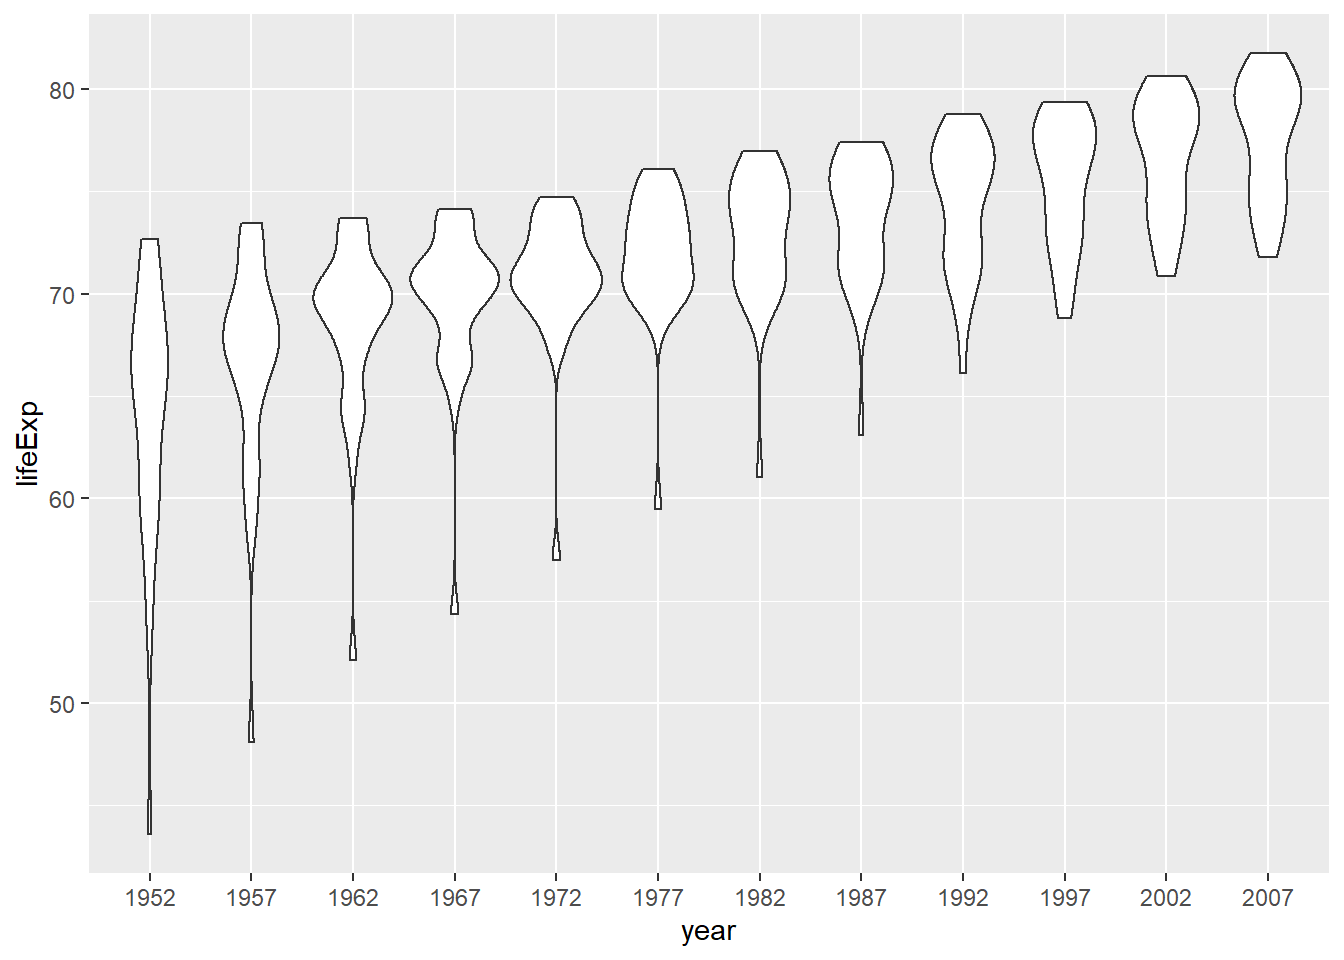
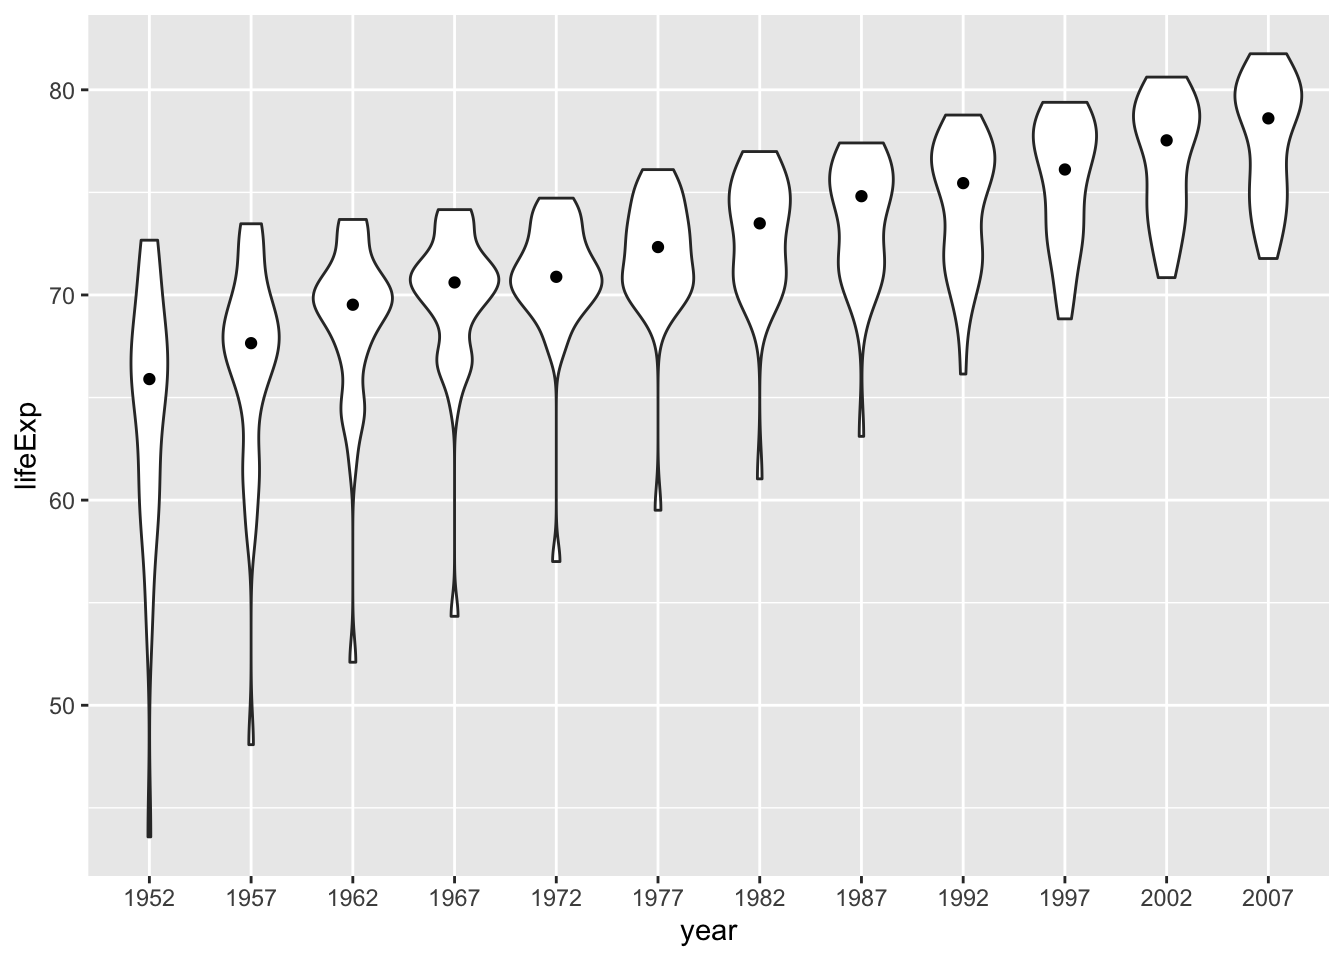
updated errors in RNotebookExample

diff --git a/RNotebookExample.html b/RNotebookExample.html
@@ -1,20 +1,17 @@
 <!DOCTYPE html>
 
-<html xmlns="http://www.w3.org/1999/xhtml">
+<html>
 
 <head>
 
 <meta charset="utf-8" />
-<meta http-equiv="Content-Type" content="text/html; charset=utf-8" />
 <meta name="generator" content="pandoc" />
 <meta http-equiv="X-UA-Compatible" content="IE=EDGE" />
 
 
-<meta name="author" content="Alexia Cardona" />
 
-<meta name="date" content="2019-01-10" />
 
-<title>RNotebookExample</title>
+<title></title>
 
 <script src="site_libs/jquery-1.11.3/jquery.min.js"></script>
 <meta name="viewport" content="width=device-width, initial-scale=1" />
@@ -237,6 +234,7 @@ $(document).ready(function () {
   border: none;
   display: inline-block;
   border-radius: 4px;
+  background-color: transparent;
 }
 
 .tabset-dropdown > .nav-tabs.nav-tabs-open > li {
@@ -280,7 +278,7 @@ $(document).ready(function () {
   <a href="rmarkdown.html">Rmarkdown</a>
 </li>
 <li>
-  <a href="git.html">GitHub</a>
+  <a href="git.html">Git</a>
 </li>
       </ul>
       <ul class="nav navbar-nav navbar-right">
@@ -294,14 +292,11 @@ $(document).ready(function () {
 
 
 
-<h1 class="title toc-ignore">RNotebookExample</h1>
-<h4 class="author">Alexia Cardona</h4>
-<h4 class="date">01/10/2019</h4>
 
 </div>
 
 
-<p>This report contains the analysis of the gapminder data and contains the results of the top Countries with the largest life expectancy in Europe. The analysis is based on data from 2007. The report also analyzes how love expectancy changed over the years in Europe.</p>
+<p>This report contains the analysis of the <code>gapminder</code> data set and contains the results of the top Countries with the largest life expectancy in Europe. The analysis is based on data from 2007. The report also analyzes how life expectancy changed over the years in Europe.</p>
 <p>This report was generated using R and the code to extract the European 2007 data is as follows:</p>
 <pre class="r"><code>#load tidyverse library
 library(tidyverse) # used for data manipulation
@@ -769,15 +764,16 @@ Turkey
 {"columns":[{"label":["Country"],"name":[1],"type":["chr"],"align":["left"]},{"label":["Population Size"],"name":[2],"type":["dbl"],"align":["right"]},{"label":["Life Expectancy"],"name":[3],"type":["dbl"],"align":["right"]},{"label":["GDP"],"name":[4],"type":["dbl"],"align":["right"]}],"data":[{"1":"Iceland","2":"301931","3":"81.757","4":"36180.789"},{"1":"Switzerland","2":"7554661","3":"81.701","4":"37506.419"},{"1":"Spain","2":"40448191","3":"80.941","4":"28821.064"},{"1":"Sweden","2":"9031088","3":"80.884","4":"33859.748"},{"1":"France","2":"61083916","3":"80.657","4":"30470.017"},{"1":"Italy","2":"58147733","3":"80.546","4":"28569.720"},{"1":"Norway","2":"4627926","3":"80.196","4":"49357.190"},{"1":"Austria","2":"8199783","3":"79.829","4":"36126.493"},{"1":"Netherlands","2":"16570613","3":"79.762","4":"36797.933"},{"1":"Greece","2":"10706290","3":"79.483","4":"27538.412"},{"1":"Belgium","2":"10392226","3":"79.441","4":"33692.605"},{"1":"United Kingdom","2":"60776238","3":"79.425","4":"33203.261"},{"1":"Germany","2":"82400996","3":"79.406","4":"32170.374"},{"1":"Finland","2":"5238460","3":"79.313","4":"33207.084"},{"1":"Ireland","2":"4109086","3":"78.885","4":"40675.996"},{"1":"Denmark","2":"5468120","3":"78.332","4":"35278.419"},{"1":"Portugal","2":"10642836","3":"78.098","4":"20509.648"},{"1":"Slovenia","2":"2009245","3":"77.926","4":"25768.258"},{"1":"Czech Republic","2":"10228744","3":"76.486","4":"22833.309"},{"1":"Albania","2":"3600523","3":"76.423","4":"5937.030"},{"1":"Croatia","2":"4493312","3":"75.748","4":"14619.223"},{"1":"Poland","2":"38518241","3":"75.563","4":"15389.925"},{"1":"Bosnia and Herzegovina","2":"4552198","3":"74.852","4":"7446.299"},{"1":"Slovak Republic","2":"5447502","3":"74.663","4":"18678.314"},{"1":"Montenegro","2":"684736","3":"74.543","4":"9253.896"},{"1":"Serbia","2":"10150265","3":"74.002","4":"9786.535"},{"1":"Hungary","2":"9956108","3":"73.338","4":"18008.944"},{"1":"Bulgaria","2":"7322858","3":"73.005","4":"10680.793"},{"1":"Romania","2":"22276056","3":"72.476","4":"10808.476"},{"1":"Turkey","2":"71158647","3":"71.777","4":"8458.276"}],"options":{"columns":{"min":{},"max":[10]},"rows":{"min":[10],"max":[10]},"pages":{}}}
   </script>
 </div>
-<p>Next, the life expectacy in Europe is observed across different years. The aim of this is to check if there was a change in life expectancy over the years. The data used for the life expectancy over the years analysis is the gapminder data and the following data manipulation was performed:</p>
+<p>Next, the life expectancy in Europe is observed across different years. The aim of this is to check if there was a change in life expectancy over the years. The data used for the life expectancy over the years analysis is the gapminder data and the following data manipulation was performed:</p>
 <pre class="r"><code>#keep on European data and change year to factor
 euro_data_fig &lt;- pop_data %&gt;% 
                     filter(continent == &quot;Europe&quot;)  %&gt;% 
-                    mutate(year=as.factor(year))</code></pre>
-<p>The life expactency over the years is plotted as following:</p>
+                    mutate(year = as_factor(year))</code></pre>
+<p>The life expectancy over the years is plotted as following:</p>
 <pre class="r"><code>euro_data_fig %&gt;%
-  ggplot(mapping=aes(x=year, y=lifeExp)) +
-    geom_violin()</code></pre>
+  ggplot(mapping = aes(x = year, y = lifeExp)) +
+  geom_violin() +
+  stat_summary(fun.y = median, geom = &quot;point&quot;)</code></pre>
 <div class="figure">
 <img src="RNotebookExample_files/figure-html/fig-chunk-1.png" alt="Life Expectancy in Europe over the years" width="672" />
 <p class="caption">
